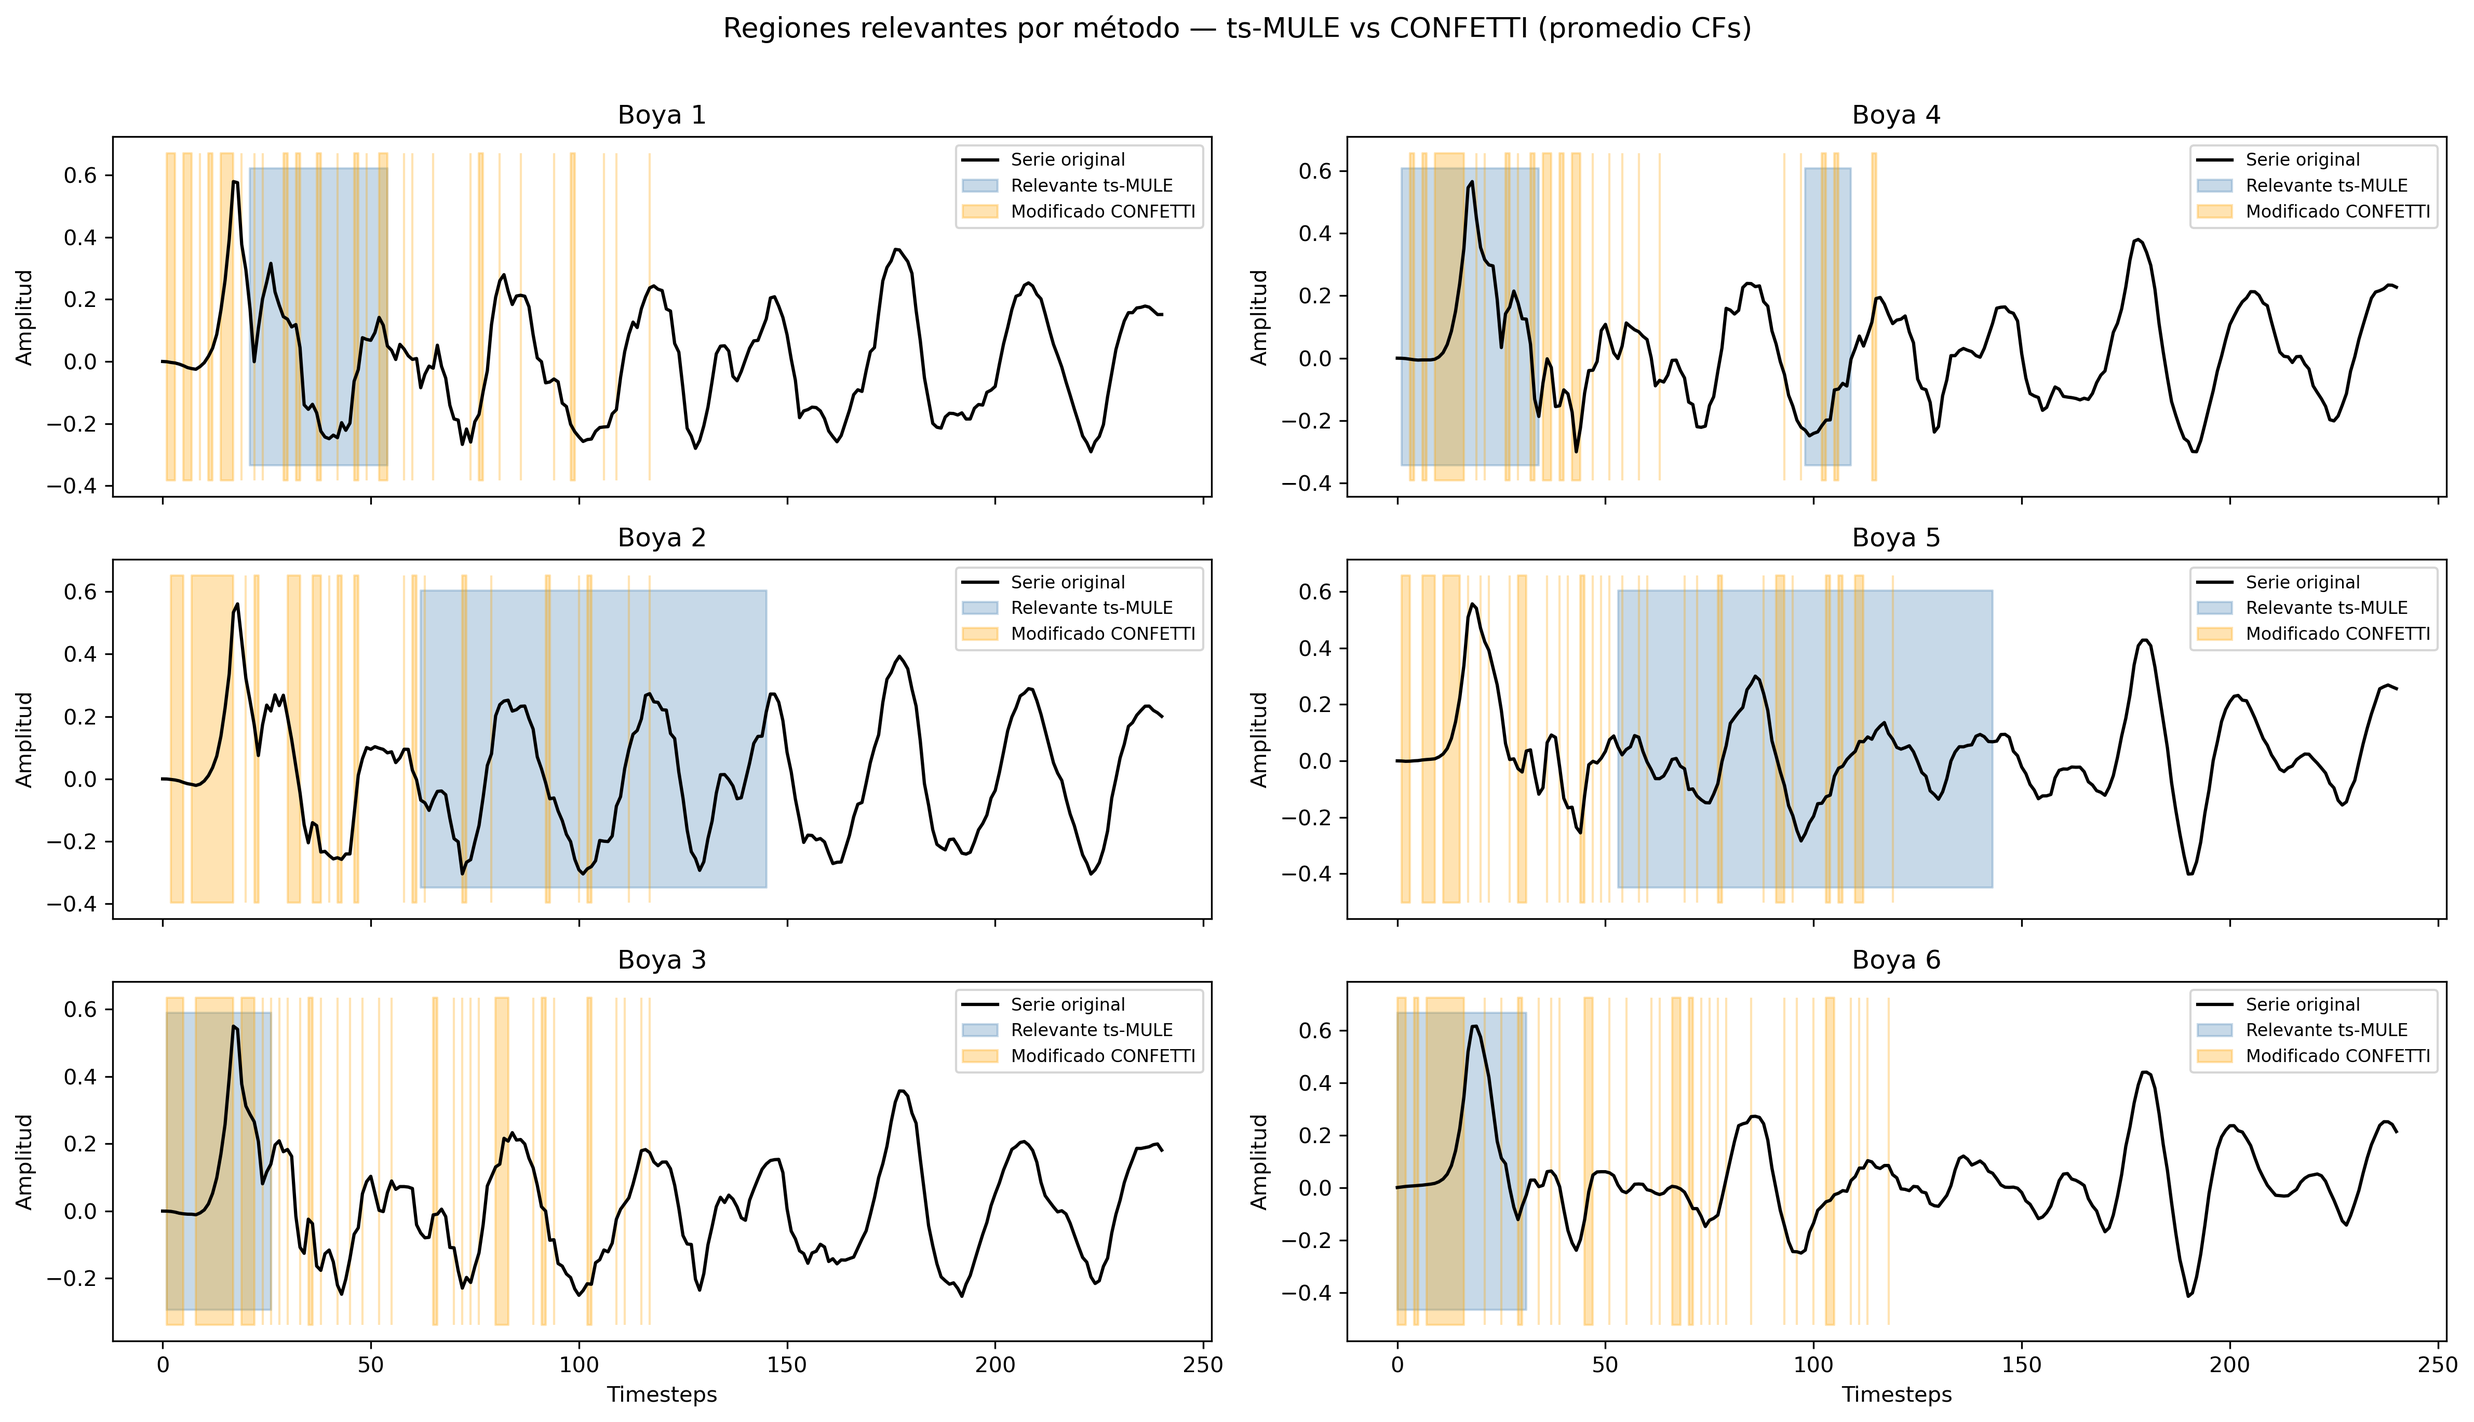
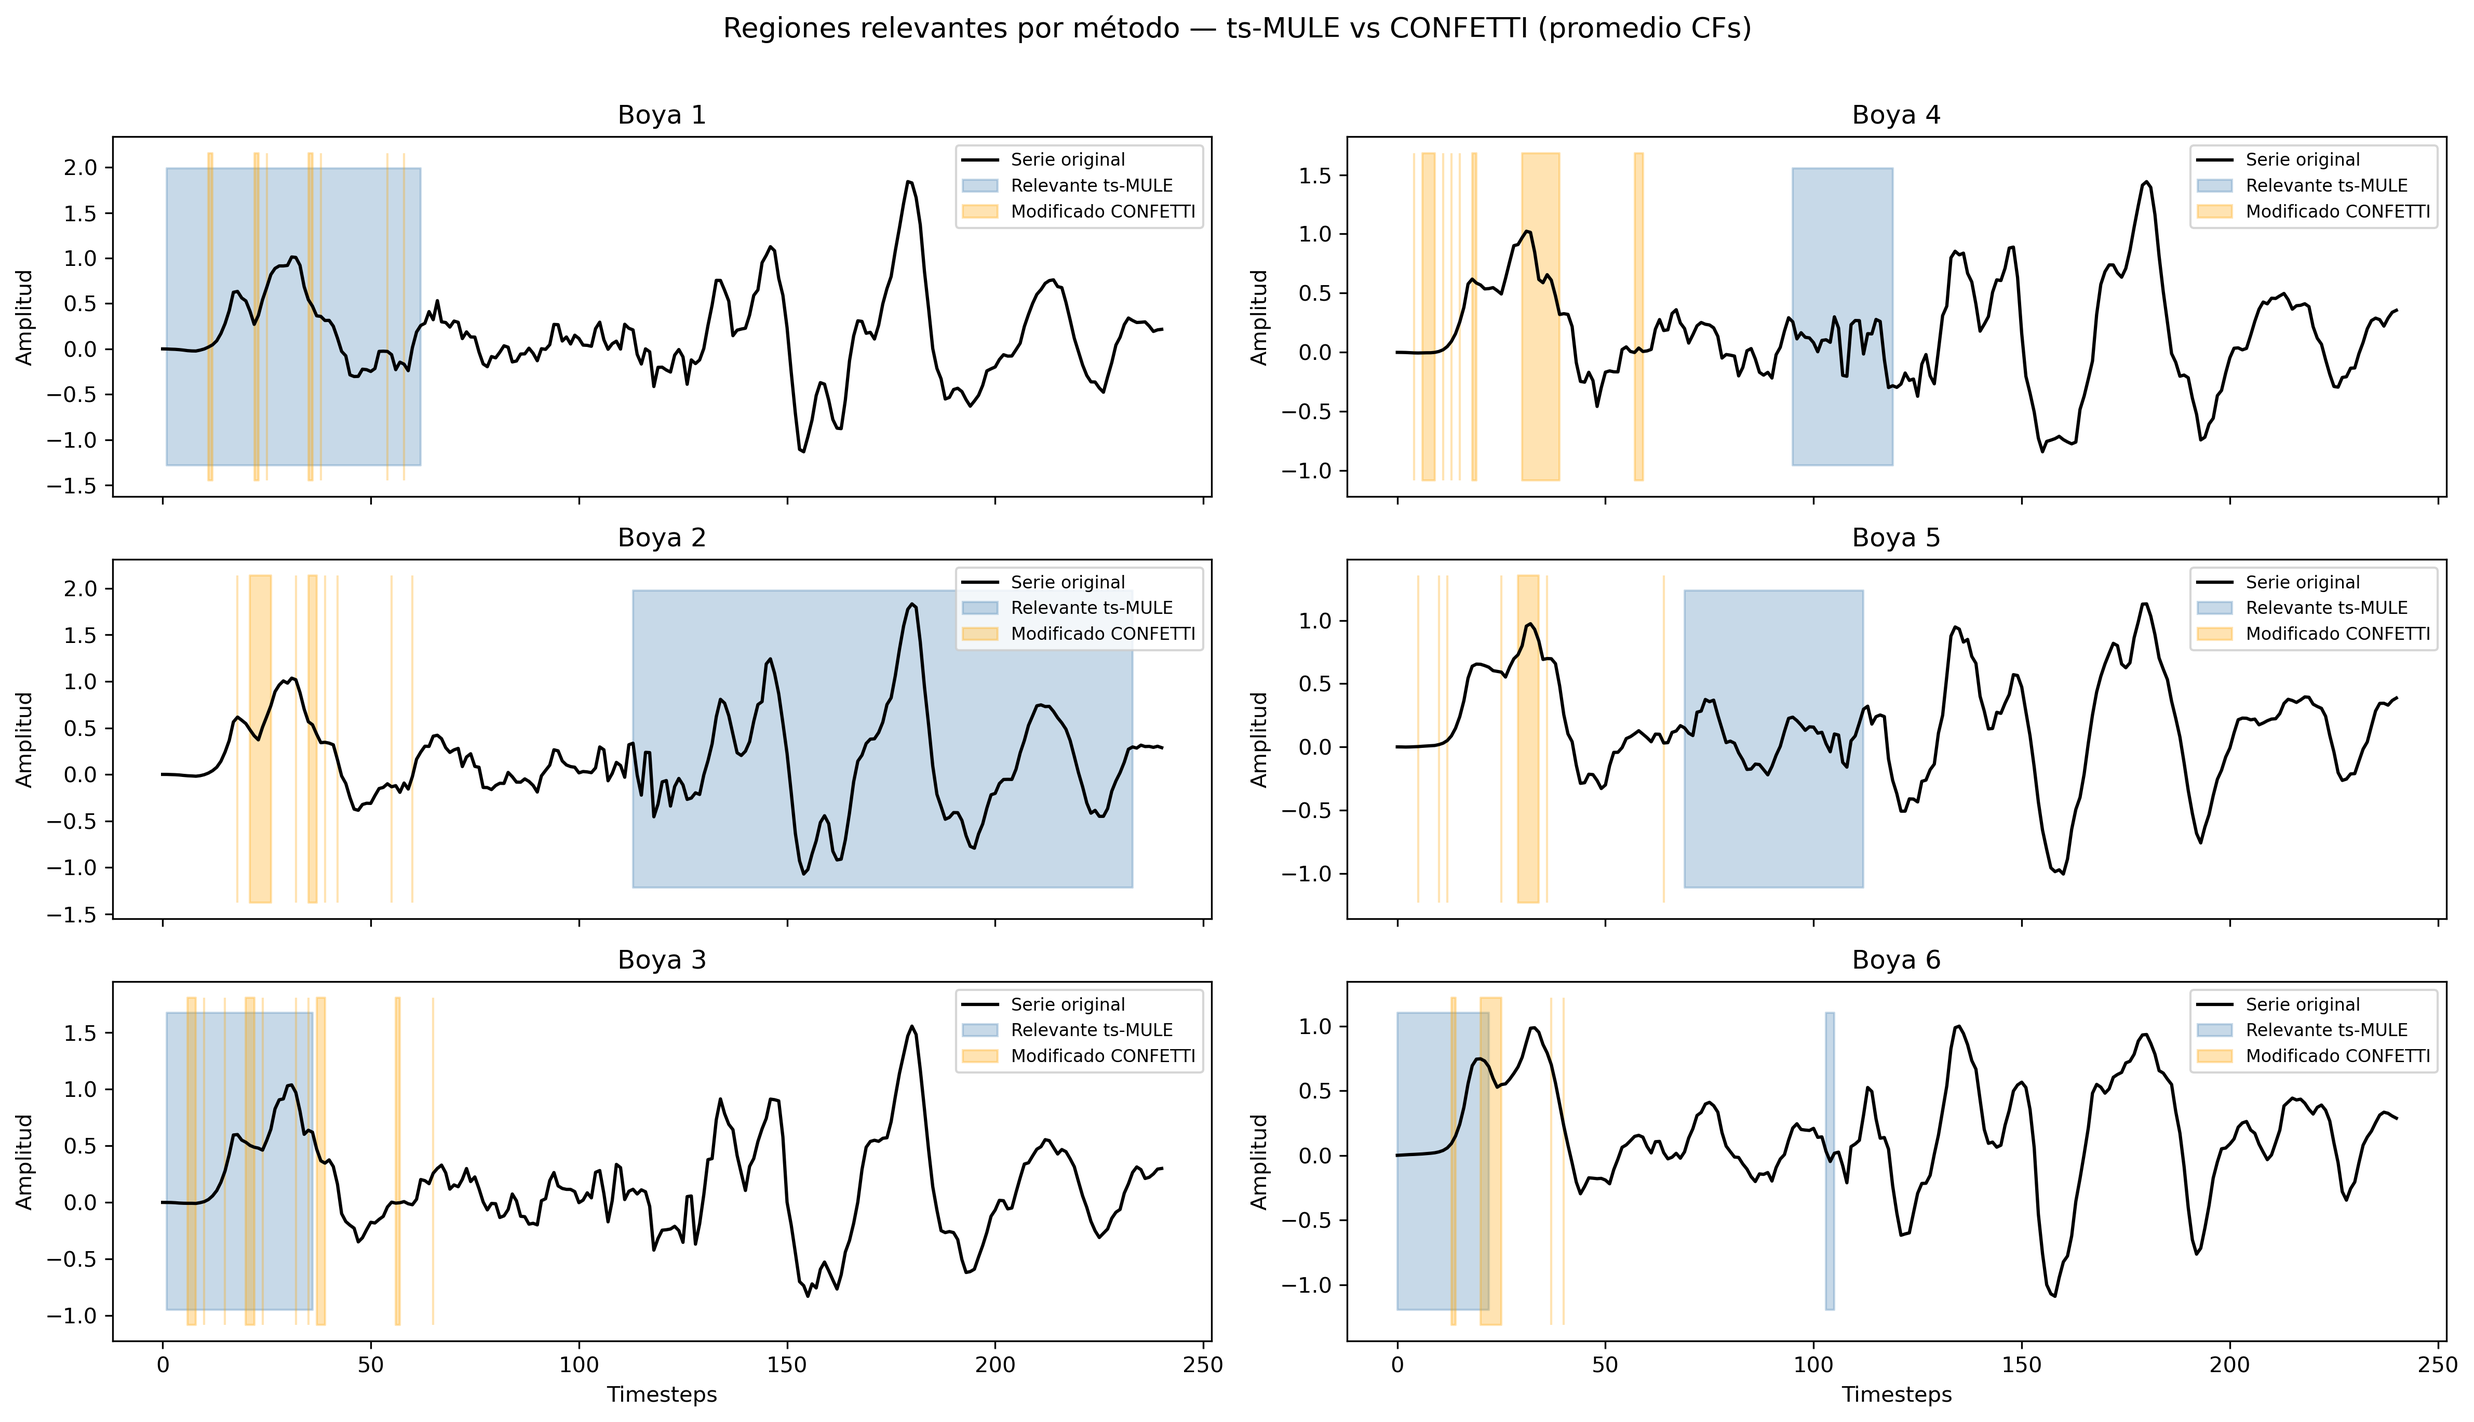
minor updates to figures and README

diff --git a/README.md b/README.md
@@ -1,62 +1,45 @@
 # XAI for Tsunami Time Series
 
-Explainability analysis of a deep learning model for tsunami classification using 
-time series data from buoy sensors. This repository implements and compares two 
-XAI (Explainable Artificial Intelligence) methods: **ts-MULE** (Schlegel et al. 2021)
-and **CONFETTI** (Cetina et al. 2026), to explain predictions of a modified version of the
-model proposed by Núñez et al. (2022). As an additional contribution, explicit 
-fidelity metrics for counterfactual quality evaluation are implemented, including 
-proximity and spectral plausibility.
+Explainability analysis of a deep learning model for tsunami classification using time series data from buoy sensors. This repository implements and compares two XAI (Explainable Artificial Intelligence) methods: **ts-MULE** (Schlegel et al. 2021) and **CONFETTI** (Cetina et al. 2026), to explain predictions of a modified version of the model proposed by Núñez et al. (2022). As an additional contribution, explicit fidelity metrics for both methods quality evaluation are implemented.
 
 ---
 
 ## 📌 Overview
 
-This repository contains the development of the course project for **Introduction 
-to Explainable Artificial Intelligence (INF473)**, 2026, at Universidad Técnica 
-Federico Santa María.
+This repository contains the development of the course project for **Introduction to Explainable Artificial Intelligence (INF473)**, 2026, at Universidad Técnica Federico Santa María.
 
-The project applies XAI techniques to interpret the predictions of a 1D-CNN model 
-trained to classify tsunami inundation events from multivariate time series recorded 
-by a network of 6 virtual buoys located off the coast of Coquimbo, Chile. As a 
-tsunami propagates from deep ocean toward the coast, the buoys record the wave signal 
-before it reaches shore. The model uses these 6 simultaneous time series as input 
-and predicts whether the event will cause inundation at a forecast point near 
-Coquimbo (see figure below).
+The project applies XAI techniques to interpret the predictions of a 1D-CNN model trained to classify tsunami inundation events from multivariate time series recorded by a network of 6 virtual buoys located off the coast of Coquimbo, Chile. As a tsunami propagates from deep ocean toward the coast, the buoys record the wave signal before it reaches shore. The model uses these 6 simultaneous time series as input and predicts whether the event will cause inundation at a forecast point near Coquimbo (see figure below).
 
 <p align="center">
   <img src="FIGS/mapa_boyas.png" width="500" alt="Buoy network and forecast point off the coast of Coquimbo, Chile"/>
 </p>
 
-Two XAI methods are implemented and compared: **ts-MULE** (Schlegel et al. 2021) 
-and **CONFETTI** (Cetina et al. 2026), identifying which temporal regions and 
-buoys are most relevant for the model's decisions. The figure below shows the 
-central result of the joint analysis: the relevant regions identified by each method 
-across all 6 buoys for a representative instance.
+Two different XAI methods are implemented and compared: **ts-MULE** (Schlegel et al. 2021) and **CONFETTI** (Cetina et al. 2026), identifying which temporal regions and buoys are most relevant for the model's decisions. The figures below show the main results of the analysis: (1) Regions of relevance indentified by TS-MULE, (2) Counterfactual generated with CONFETTI, and (3) a joint analysis overlapping the relevant regions identified by each method across, all three figures for all 6 buoys for a representative instance. Additionally, a relative importance of the 6 buoys to the prediction of one instance was implemented, consistently resulting on identifying the buoy 6 as the one that provides more information to the prediction.
+
 
 <p align="center">
-  <img src="FIGS/comparacion_regiones.png" width="750" alt="Relevant regions identified by ts-MULE and CONFETTI for each buoy"/>
+  <img src="FIGS/relevancia_por_boya.png" height="350"/>
+  <img src="FIGS/mejor_cf.png" height="350"/>
+  <img src="FIGS/comparacion_regiones.png" height="300"/>
 </p>
 
-The ultimate goal is to use these explainability results to determine the optimal 
-placement of virtual DART buoys for tsunami early warning.
+As an additional contribution, explicit fidelity metrics for evaluation were implemented. 
+
+For CONFETTI we used the 4 conditions based on Molnar (2023): (1) change of class, (2) diversity, (3) proximity, and (4) plausibility. For the latter, we propose a spectral analysis that is physically motivated by the resonance properties of Coquimbo bay (Catalán et al. 2025).
+
+For TS-MULE, two fidelity metrics were implemented: (1) Segment-level Deletion and (2) Segment-level Insertion. Both act directly over the segments identified by TS-MULE, which is appropriate given the explanation generated has a local segmentation nature.
 
 ---
 
 ## 🌊 Methods
 
 ### ts-MULE
-Local perturbation-based explainability method adapted for time series. Generates 
-relevance scores for each timestep and feature by fitting a local linear model 
-(Lasso regression) over perturbed samples (Schlegel et al. 2021).
+Local perturbation-based explainability method adapted for time series. Generates relevance scores for each timestep and feature by fitting a local linear model (Lasso regression) over perturbed samples (Schlegel et al. 2021).
 
 ### CONFETTI
-Counterfactual explanation method for time series. Generates counterfactual instances 
-— minimal modifications to the input that would change the model's prediction — 
-using a genetic algorithm (Cetina et al. 2026).
+Counterfactual explanation method for time series. Generates counterfactual instances — minimal modifications to the input that would change the model's prediction — using a genetic algorithm (Cetina et al. 2026).
 
-### Fidelity Metrics
-As an additional contribution, explicit fidelity metrics for evaluation are implemented. For CONFETTI we used the 4 conditions presented by Molnar (2023): (1) change of class, (2) diversity, (3) proximity, and (4) plausibility. For the last, we propose a spectral analysis that is physically motivated by the resonance properties of Coquimbo bay (Catalán et al. 2025).
+
 
 ---
 
@@ -65,9 +48,9 @@ As an additional contribution, explicit fidelity metrics for evaluation are impl
 ```
 ├── xai_utils/                  # Main XAI utility module
 │   ├── __init__.py
-│   ├── tsmule_analysis.py      # ts-MULE analysis function
-│   ├── tsmule_plots.py         # ts-MULE plotting functions
-│   ├── tsmule_convergence.py   # ts-MULE convergence analysis
+│   ├── tsmule_analysis.py      # TS-MULE analysis function
+│   ├── tsmule_plots.py         # TS-MULE plotting functions
+│   ├── tsmule_convergence.py   # TS-MULE convergence analysis
 │   ├── confetti_analysis.py    # CONFETTI analysis function
 │   ├── confetti_plots.py       # CONFETTI plotting functions
 │   ├── confetti_convergence.py # CONFETTI convergence analysis
@@ -76,7 +59,7 @@ As an additional contribution, explicit fidelity metrics for evaluation are impl
 │
 ├── 0X_name.ipynb               # Introductory files, data and model setup
 ├── 1X_name.ipynb               # CONFETTI implementation (Cetina et al. 2026)
-├── 2X_name.ipynb               # ts-MULE implementation (Schlegel et al. 2021)
+├── 2X_name.ipynb               # TS-MULE implementation (Schlegel et al. 2021)
 ├── 3X_name.ipynb               # Joint analysis using both methods
 ├── 4x_name.ipynb               # Fidelity metrics 
 │
@@ -84,7 +67,7 @@ As an additional contribution, explicit fidelity metrics for evaluation are impl
 ├── MODELS/                     # Trained models (see Installation for download)
 ├── FIGS/                       # Empty folder for results (codes fail if doesn't exist)
 ├── RESULTADOS_COMPARACION/     # Empty folder for results (codes fail if doesn't exist)
-├── RESULTADOS_MULTI/     # Empty folder for results (codes fail if doesn't exist)
+├── RESULTADOS_MULTI/           # Empty folder for results (codes fail if doesn't exist)
 ├── RESULTADOS_CONFETTI/        # Empty folder for results (codes fail if doesn't exist)
 ├── RESULTADOS_TSMULE/          # Empty folder for results (codes fail if doesn't exist)
 ├── METHODS/                    # Place TS-MULE and CONFETTI repositories here
@@ -121,8 +104,7 @@ conda activate xai_tsunami
 
    Once downloaded, follow the installation instructions for each package:
 
-   **ts-MULE** — No installation required. Download the folder and place it 
-   in `METHODS/ts-mule/` at the root of the repository. Then add it to the 
+   **TS-MULE** — No installation required. Download the folder and place it in `METHODS/ts-mule/` at the root of the repository. Then add it to the 
    Python path at the beginning of each notebook:
 ```python
    import sys
@@ -133,8 +115,7 @@ conda activate xai_tsunami
 ```bash
    pip install confetti-ts
 ```
-   Alternatively, download the package from the link above and install from 
-   its local directory:
+   Alternatively, download the package from the link above and install from its local directory:
 ```bash
    cd path/to/confetti
    pip install confetti-ts
@@ -192,7 +173,7 @@ metricas = reporte_cf(
 
 | Method | Optimal Parameters | Computation Time |
 |:---:|:---:|:---:|
-| ts-MULE | n_runs=300, n_samples=100 | ~9.8 min |
+| TS-MULE | n_runs=300, n_samples=100 | ~9.8 min |
 | CONFETTI | population_size=100, max_generations=200 | between 9.0 and 45 min* |
 
 
@@ -201,11 +182,9 @@ metricas = reporte_cf(
 
 ---
 
-## 🐛 Bug Fixes in ts-MULE
+## 🐛 Bug Fixes in TS-MULE
 
-The following bugs were identified and corrected from the original ts-MULE repository. 
-The modified version available for download in this repository already incorporates 
-all these fixes.
+The following bugs were identified and corrected from the original ts-MULE repository. The modified version available for download in this repository already incorporates all these fixes.
 
 | # | File | Function | Bug | Fix |
 |:---:|:---|:---|:---|:---|
@@ -219,8 +198,7 @@ all these fixes.
 
 ## 📁 Data
 
-The dataset used in this project consists of synthetic tsunami time series 
-generated from numerical simulations, recorded by a network of 6 virtual buoys.
+The dataset used in this project consists of synthetic tsunami time series generated from numerical simulations, recorded by a network of 6 virtual buoys.
 
 | Dataset | Download | Description |
 |:---|:---:|:---|
@@ -282,24 +260,16 @@ The methods implemented in this project are based on the following repositories:
 
 ## 📚 References
 
-- Catalán, P. A., et al. (2025). Toward the Classification of Bays Based on Their 
-Resonant Response to Tsunamis. *Journal of Geophysical Research: Oceans*.
+- Catalán, P. A., et al. (2025). Toward the Classification of Bays Based on Their Resonant Response to Tsunamis. *Journal of Geophysical Research: Oceans*.
 
-- Cetina, A. G. P., Benguessoum, K., Lourenço, R., & Kubler, S. (2026). Counterfactual 
-Explainable AI (XAI) Method for Deep Learning-Based Multivariate Time Series 
-Classification. *Proceedings of the AAAI Conference on Artificial Intelligence*, 
-17393–17400. 
+- Cetina, A. G. P., Benguessoum, K., Lourenço, R., & Kubler, S. (2026). Counterfactual Explainable AI (XAI) Method for Deep Learning-Based Multivariate Time Series Classification. *Proceedings of the AAAI Conference on Artificial Intelligence*, 17393–17400. 
 [https://arxiv.org/abs/2511.13237](https://arxiv.org/abs/2511.13237)
 
 - Molnar, C. (2023). *Interpretable Machine Learning* (3rd ed.).
 [https://christophm.github.io/interpretable-ml-book](https://christophm.github.io/interpretable-ml-book)
 
-- Núñez, J., Catalán, P. A., Valle, C., Zamora, N., & Valderrama, A. (2022). 
-Discriminating the occurrence of inundation in tsunami early warning with 
-one-dimensional convolutional neural networks. *Scientific Reports*, 12(1). 
+- Núñez, J., Catalán, P. A., Valle, C., Zamora, N., & Valderrama, A. (2022). Discriminating the occurrence of inundation in tsunami early warning with one-dimensional convolutional neural networks. *Scientific Reports*, 12(1). 
 [https://doi.org/10.1038/s41598-022-13788-9](https://doi.org/10.1038/s41598-022-13788-9)
 
-- Schlegel, U., Lam, D. V., Keim, D. A., & Seebacher, D. (2021). TS-MULE: Local 
-Interpretable Model-Agnostic Explanations for Time Series Forecast Models. *Joint 
-European Conference on Machine Learning and Knowledge Discovery in Databases*, 5–14. 
+- Schlegel, U., Lam, D. V., Keim, D. A., & Seebacher, D. (2021). TS-MULE: Local Interpretable Model-Agnostic Explanations for Time Series Forecast Models. *Joint European Conference on Machine Learning and Knowledge Discovery in Databases*, 5–14. 
 [https://arxiv.org/abs/2109.08438](https://arxiv.org/abs/2109.08438)
